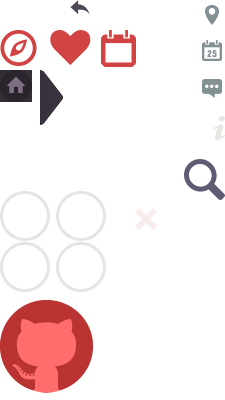
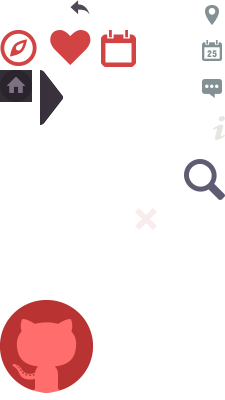
fix the bug that the home section items dont show probably and add the arrow animation

diff --git a/src/css/master.css b/src/css/master.css
@@ -1230,9 +1230,25 @@ html.is-first-route #header .tab:after {
   width: 50px;
   height: 50px;
   margin-left: -25px;
+  opacity: 0;
   background-image: url(../assets/images/ui.png);
   background-position: 0px 0px;
   background-repeat: no-repeat;
+}
+/* line 64, ../scss/sections/_home.scss */
+.home-item .arrow:before {
+  position: absolute;
+  content: '';
+  width: 44px;
+  height: 44px;
+  border-radius: 50px;
+  border: 3px solid rgba(0, 0, 0, 0.1);
+  opacity: 0;
+  -webkit-transition: opacity 0.3s linear 0.6s;
+  -moz-transition: opacity 0.3s linear 0.6s;
+  -ms-transition: opacity 0.3s linear 0.6s;
+  -o-transition: opacity 0.3s linear 0.6s;
+  transition: opacity 0.3s linear 0.6s;
 }
 @media (min--moz-device-pixel-ratio: 1.3), (-o-min-device-pixel-ratio: 2.6 / 2), (-webkit-min-device-pixel-ratio: 1.3), (min-device-pixel-ratio: 1.3), (min-resolution: 1.3dppx) {
   /* line 56, ../scss/sections/_home.scss */
@@ -1241,32 +1257,82 @@ html.is-first-route #header .tab:after {
     background-size: 225px 400px;
   }
 }
-/* line 66, ../scss/sections/_home.scss */
+/* line 81, ../scss/sections/_home.scss */
 .home-item .arrow.front {
   margin-top: -150px;
   background-position: 0 -191px;
+  -webkit-transform: translate3d(0, 20px, 0);
+  -moz-transform: translate3d(0, 20px, 0);
+  -ms-transform: translate3d(0, 20px, 0);
+  -o-transform: translate3d(0, 20px, 0);
+  transform: translate3d(0, 20px, 0);
 }
-/* line 71, ../scss/sections/_home.scss */
+/* line 87, ../scss/sections/_home.scss */
 .home-item .arrow.end {
   margin-top: 100px;
   background-position: -56px -191px;
+  -webkit-transform: translate3d(0, -20px, 0);
+  -moz-transform: translate3d(0, -20px, 0);
+  -ms-transform: translate3d(0, -20px, 0);
+  -o-transform: translate3d(0, -20px, 0);
+  transform: translate3d(0, -20px, 0);
+}
+/* line 93, ../scss/sections/_home.scss */
+.home-item .arrow.animate {
+  -webkit-transition: -webkit-transform 0.3s ease-in-out 0.2s, opacity 0.3s linear 0.2s;
+  -moz-transition: -moz-transform 0.3s ease-in-out 0.2s, opacity 0.3s linear 0.2s;
+  -ms-transition: -ms-transform 0.3s ease-in-out 0.2s, opacity 0.3s linear 0.2s;
+  -o-transition: -o-transform 0.3s ease-in-out 0.2s, opacity 0.3s linear 0.2s;
+  transition: transform 0.3s ease-in-out 0.2s, opacity 0.3s linear 0.2s;
+}
+/* line 97, ../scss/sections/_home.scss */
+.home-item .arrow.show {
+  opacity: 1;
+}
+/* line 101, ../scss/sections/_home.scss */
+.home-item .arrow.show:before {
+  opacity: 1;
+}
+/* line 105, ../scss/sections/_home.scss */
+.home-item .arrow.show.front, .home-item .arrow.show.end {
+  -webkit-transform: translate3d(0, 0, 0);
+  -moz-transform: translate3d(0, 0, 0);
+  -ms-transform: translate3d(0, 0, 0);
+  -o-transform: translate3d(0, 0, 0);
+  transform: translate3d(0, 0, 0);
+}
+/* line 113, ../scss/sections/_home.scss */
+.home-item.home-item-schedule .arrow.animate {
+  -webkit-transition: -webkit-transform 0.3s ease-in-out, opacity 0.3s linear;
+  -moz-transition: -moz-transform 0.3s ease-in-out, opacity 0.3s linear;
+  -ms-transition: -ms-transform 0.3s ease-in-out, opacity 0.3s linear;
+  -o-transition: -o-transform 0.3s ease-in-out, opacity 0.3s linear;
+  transition: transform 0.3s ease-in-out, opacity 0.3s linear;
+}
+/* line 116, ../scss/sections/_home.scss */
+.home-item.home-item-schedule .arrow.animate:before {
+  -webkit-transition: opacity 0.3s linear 0.4s;
+  -moz-transition: opacity 0.3s linear 0.4s;
+  -ms-transition: opacity 0.3s linear 0.4s;
+  -o-transition: opacity 0.3s linear 0.4s;
+  transition: opacity 0.3s linear 0.4s;
 }
 @media (min-width: 901px) and (max-width: 1050px) {
-  /* line 79, ../scss/sections/_home.scss */
+  /* line 123, ../scss/sections/_home.scss */
   .home-item .text {
     font-size: 140px;
   }
-  /* line 82, ../scss/sections/_home.scss */
+  /* line 126, ../scss/sections/_home.scss */
   .home-item .text:before {
     font-size: 24px;
     margin-left: -26px;
     margin-top: -52px;
   }
-  /* line 89, ../scss/sections/_home.scss */
+  /* line 133, ../scss/sections/_home.scss */
   .home-item .arrow.front {
     margin-top: -130px;
   }
-  /* line 93, ../scss/sections/_home.scss */
+  /* line 137, ../scss/sections/_home.scss */
   .home-item .arrow.end {
     margin-top: 80px;
   }
@@ -1277,45 +1343,55 @@ html.is-first-route #header .tab:after {
     width: 100%;
     height: 33.33%;
   }
-  /* line 105, ../scss/sections/_home.scss */
+  /* line 149, ../scss/sections/_home.scss */
   .home-item .arrow.front {
     margin-left: -240px;
     margin-top: -25px;
     background-position: 0 -242px;
+    -webkit-transform: translate3d(20px, 0, 0);
+    -moz-transform: translate3d(20px, 0, 0);
+    -ms-transform: translate3d(20px, 0, 0);
+    -o-transform: translate3d(20px, 0, 0);
+    transform: translate3d(20px, 0, 0);
   }
-  /* line 111, ../scss/sections/_home.scss */
+  /* line 156, ../scss/sections/_home.scss */
   .home-item .arrow.end {
     margin-left: 190px;
     margin-top: -25px;
     background-position: -56px -242px;
+    -webkit-transform: translate3d(-20px, 0, 0);
+    -moz-transform: translate3d(-20px, 0, 0);
+    -ms-transform: translate3d(-20px, 0, 0);
+    -o-transform: translate3d(-20px, 0, 0);
+    transform: translate3d(-20px, 0, 0);
   }
 }
 @media (min-width: 0px) and (max-width: 479px) {
-  /* line 122, ../scss/sections/_home.scss */
+  /* line 168, ../scss/sections/_home.scss */
   .home-item .text {
     font-size: 120px;
   }
-  /* line 125, ../scss/sections/_home.scss */
+  /* line 171, ../scss/sections/_home.scss */
   .home-item .text:before {
     font-size: 24px;
     margin-left: -26px;
     margin-top: -52px;
   }
-  /* line 134, ../scss/sections/_home.scss */
+  /* line 180, ../scss/sections/_home.scss */
   .home-item .arrow.front {
     margin-left: -180px;
   }
-  /* line 138, ../scss/sections/_home.scss */
+  /* line 184, ../scss/sections/_home.scss */
   .home-item .arrow.end {
     margin-left: 130px;
   }
 }
 @media (min-height: 0px) and (max-height: 479px) {
-  /* line 146, ../scss/sections/_home.scss */
+  /* line 192, ../scss/sections/_home.scss */
   .home-item .text {
     font-size: 110px;
   }
-  /* line 149, ../scss/sections/_home.scss */
+  /* line 195, ../scss/sections/_home.scss */
   .home-item .text:before {
     font-size: 20px;
     margin-left: -26px;

diff --git a/src/js/sections/HomeSection.js b/src/js/sections/HomeSection.js
@@ -20,6 +20,8 @@ define([
             this._initVariables();
             this._initEvents();
 
+            this.isFirstTime = true;
+
         }
 
         var _super = AbstractSection.prototype;
@@ -39,6 +41,8 @@ define([
             this.moveContainers = this.container.find('.move-container');
             this.topContainer = this.moveContainers.filter('.top');
             this.bottomContainer = this.moveContainers.filter('.bottom');
+
+            this.arrows = this.container.find('.arrow');
 
             this.items = this.container.find('.home-item');
 
@@ -113,14 +117,24 @@ define([
 
 
         function show(currentNodes, previousSection, previousNodes){
+            var self = this;
             this.container.show();
             stageReference.onResize.add(_onResize, this);
             this._onResize();
+
+            //arrow animation
+            if(this.isFirstTime) {
+                this.arrows.addClass('show animate');
+                setTimeout(function(){
+                    self.arrows.removeClass('animate');
+                }, 400);
+                this.isFirstTime = false;
+            }
+
             if(previousNodes.length < 1 || sectionController.isFirstRoute) {
                 this.appear();
                 this._setShown();
             } else {
-                var self = this;
                 var foundTarget;
                 var previousNode = previousNodes[1];
                 var foundId = this.items.length;
@@ -136,9 +150,9 @@ define([
                 this.topContainer[0].style[_transform3DStyle] = 'translate3d(' + (self.isWide ? (- moveDistance) + 'px,0' : '0,' + (- moveDistance) + 'px') + ',0)';
                 this.bottomContainer[0].style[_transform3DStyle] = 'translate3d(' + (self.isWide ? moveDistance + 'px,0' : '0,' + moveDistance + 'px') + ',0)';
 
-                tweenHelper.addDom(this.topContainer[0], self.isWide ? {x: - moveDistance} : {y: - moveDistance}).to(self.isWide ? {x: 0} : {y: 0}, 500).easing( tweenHelper.Easing.Sinusoidal.Out).onUpdate(tweenHelper.translateXY3DCallback).start();
-                tweenHelper.addDom(this.bottomContainer[0], self.isWide ? {x: moveDistance} : {y: moveDistance}).to(self.isWide ? {x: 0} : {y: 0}, 500).easing( tweenHelper.Easing.Sinusoidal.Out).onUpdate(tweenHelper.translateXY3DCallback).start();
-                
+                tweenHelper.addDom(this.topContainer[0], self.isWide ? {x: - moveDistance, y: 0} : {x: 0, y: - moveDistance}).to({x: 0, y: 0}, 500).easing( tweenHelper.Easing.Sinusoidal.Out).onUpdate(tweenHelper.translateXY3DCallback).start();
+                tweenHelper.addDom(this.bottomContainer[0], self.isWide ? {x: moveDistance, y: 0} : {x: 0, y: moveDistance}).to({x: 0, y: 0}, 500).easing( tweenHelper.Easing.Sinusoidal.Out).onUpdate(tweenHelper.translateXY3DCallback).start();
+
                 setTimeout(function(){
                     self._removeFromMoveContainers();
                     self._setShown();
@@ -162,8 +176,8 @@ define([
                 foundTarget.tearItem.easeTo(1, .5);
 
                 this.topContainer[0].style[_transform3DStyle] = this.bottomContainer[0].style[_transform3DStyle] = 'translate3d(0,0,0)';
-                tweenHelper.addDom(this.topContainer[0], self.isWide ? {x: 0} : {y: 0}).delay(400).to(self.isWide ? {x: - moveDistance} : {y: - moveDistance}, 500).easing( tweenHelper.Easing.Sinusoidal.In).onUpdate(tweenHelper.translateXY3DCallback).start();
-                tweenHelper.addDom(this.bottomContainer[0], self.isWide ? {x: 0} : {y: 0}).delay(400).to(self.isWide ? {x: moveDistance} : {y: moveDistance}, 500).easing( tweenHelper.Easing.Sinusoidal.In).onUpdate(tweenHelper.translateXY3DCallback).start();
+                tweenHelper.addDom(this.topContainer[0], {x: 0, y: 0}).delay(400).to(self.isWide ? {x: - moveDistance} : {y: - moveDistance}, 500).easing( tweenHelper.Easing.Sinusoidal.In).onUpdate(tweenHelper.translateXY3DCallback).start();
+                tweenHelper.addDom(this.bottomContainer[0], {x: 0, y: 0}).delay(400).to(self.isWide ? {x: moveDistance} : {y: moveDistance}, 500).easing( tweenHelper.Easing.Sinusoidal.In).onUpdate(tweenHelper.translateXY3DCallback).start();
 
                 setTimeout(function(){
                     self._removeFromMoveContainers();

diff --git a/src/scss/sections/_home.scss b/src/scss/sections/_home.scss
@@ -61,16 +61,60 @@
         height: 50px;
         margin-left: -25px;
 
+        &:before {
+            position: absolute;
+            content: '';
+            width: 44px;
+            height: 44px;
+            border-radius: 50px;
+            border: 3px solid rgba(0,0,0,.1);
+
+            opacity: 0;
+
+            @include transition(opacity .3s linear .6s);
+        }
+
+        opacity: 0;
+
         @include ui-asset(0, 0);
 
         &.front {
             margin-top: -150px;
             background-position: 0 -191px;
+            @include transform(translate3d(0, 20px, 0));
         }
 
         &.end {
             margin-top: 100px;
             background-position: -56px -191px;
+            @include transform(translate3d(0, -20px, 0));
+        }
+
+        &.animate {
+            @include transformTransition(.3s ease-in-out .2s, opacity .3s linear .2s);
+        }
+
+        &.show {
+
+            opacity: 1;
+
+            &:before {
+                opacity: 1;
+            }
+
+            &.front, &.end {
+                @include transform(translate3d(0, 0, 0));
+            }
+        }
+    }
+
+
+
+    &.home-item-schedule .arrow.animate{
+        @include transformTransition(.3s ease-in-out, opacity .3s linear);
+
+        &:before {
+            @include transition(opacity .3s linear .4s);
         }
     }
 
@@ -106,12 +150,14 @@
                 margin-left: -240px;
                 margin-top: -25px;
                 background-position: 0 -242px;
+                @include transform(translate3d(20px, 0, 0));
             }
 
             &.end {
                 margin-left: 190px;
                 margin-top: -25px;
                 background-position: -56px -242px;
+                @include transform(translate3d(-20px, 0, 0));
             }
         }
     }

diff --git a/src/assets/templates/sections/home.html b/src/assets/templates/sections/home.html
@@ -1,7 +1,7 @@
 <div id="home" class="section">
     <div class="top move-container"></div>
     {{#items}}
-    <div class="home-item" style="background-color:{{color}}" data-link={{link}}>
+    <div class="home-item home-item-{{id}}" style="background-color:{{color}}" data-link={{link}}>
         <div class="arrow front"></div>
         <div class="text">{{name}}</div>
         <div class="arrow end"></div>
